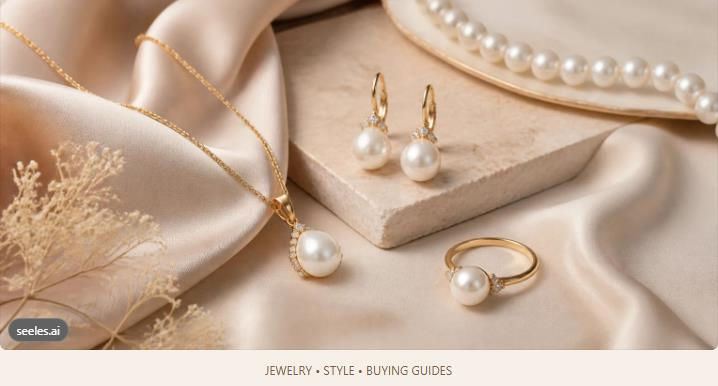
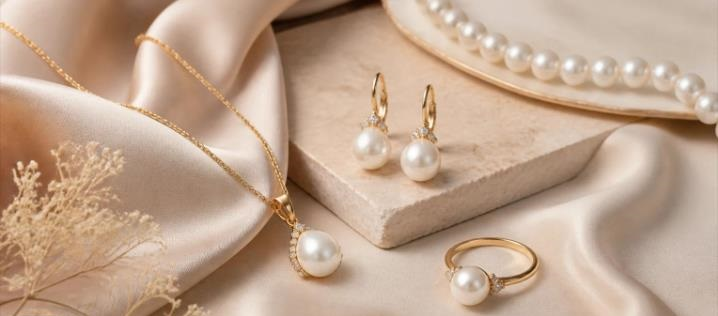
Remove seeles.ai watermark and duplicate text kicker from hero section

diff --git a/index.html b/index.html
@@ -103,13 +103,12 @@
       <!-- Featured Luxury Editorial Hero Banner -->
       <div class="magazine-hero-card">
         <a href="blog.html" style="display: block; text-decoration: none;">
-          <img src="assets/images/editorial-hero-pearl.jpg" alt="Discover the Art of Timeless Jewelry - SilverPetals Luxury Editorial" width="718" height="386" loading="eager">
+          <img src="assets/images/editorial-hero-pearl.jpg" alt="Discover the Art of Timeless Jewelry - SilverPetals Luxury Editorial" width="718" height="316" loading="eager">
         </a>
       </div>
 
       <!-- Editorial Headline & Action -->
       <div class="magazine-hero-meta">
-        <div class="magazine-kicker">Jewelry • Bridal • Buying Guides</div>
         <h1 class="magazine-hero-title">Discover the Art of Timeless Jewelry</h1>
         <p class="magazine-hero-lead">
           Explore elegant jewelry styles, bridal inspiration, expert buying guides, and beautiful ideas for every occasion.
